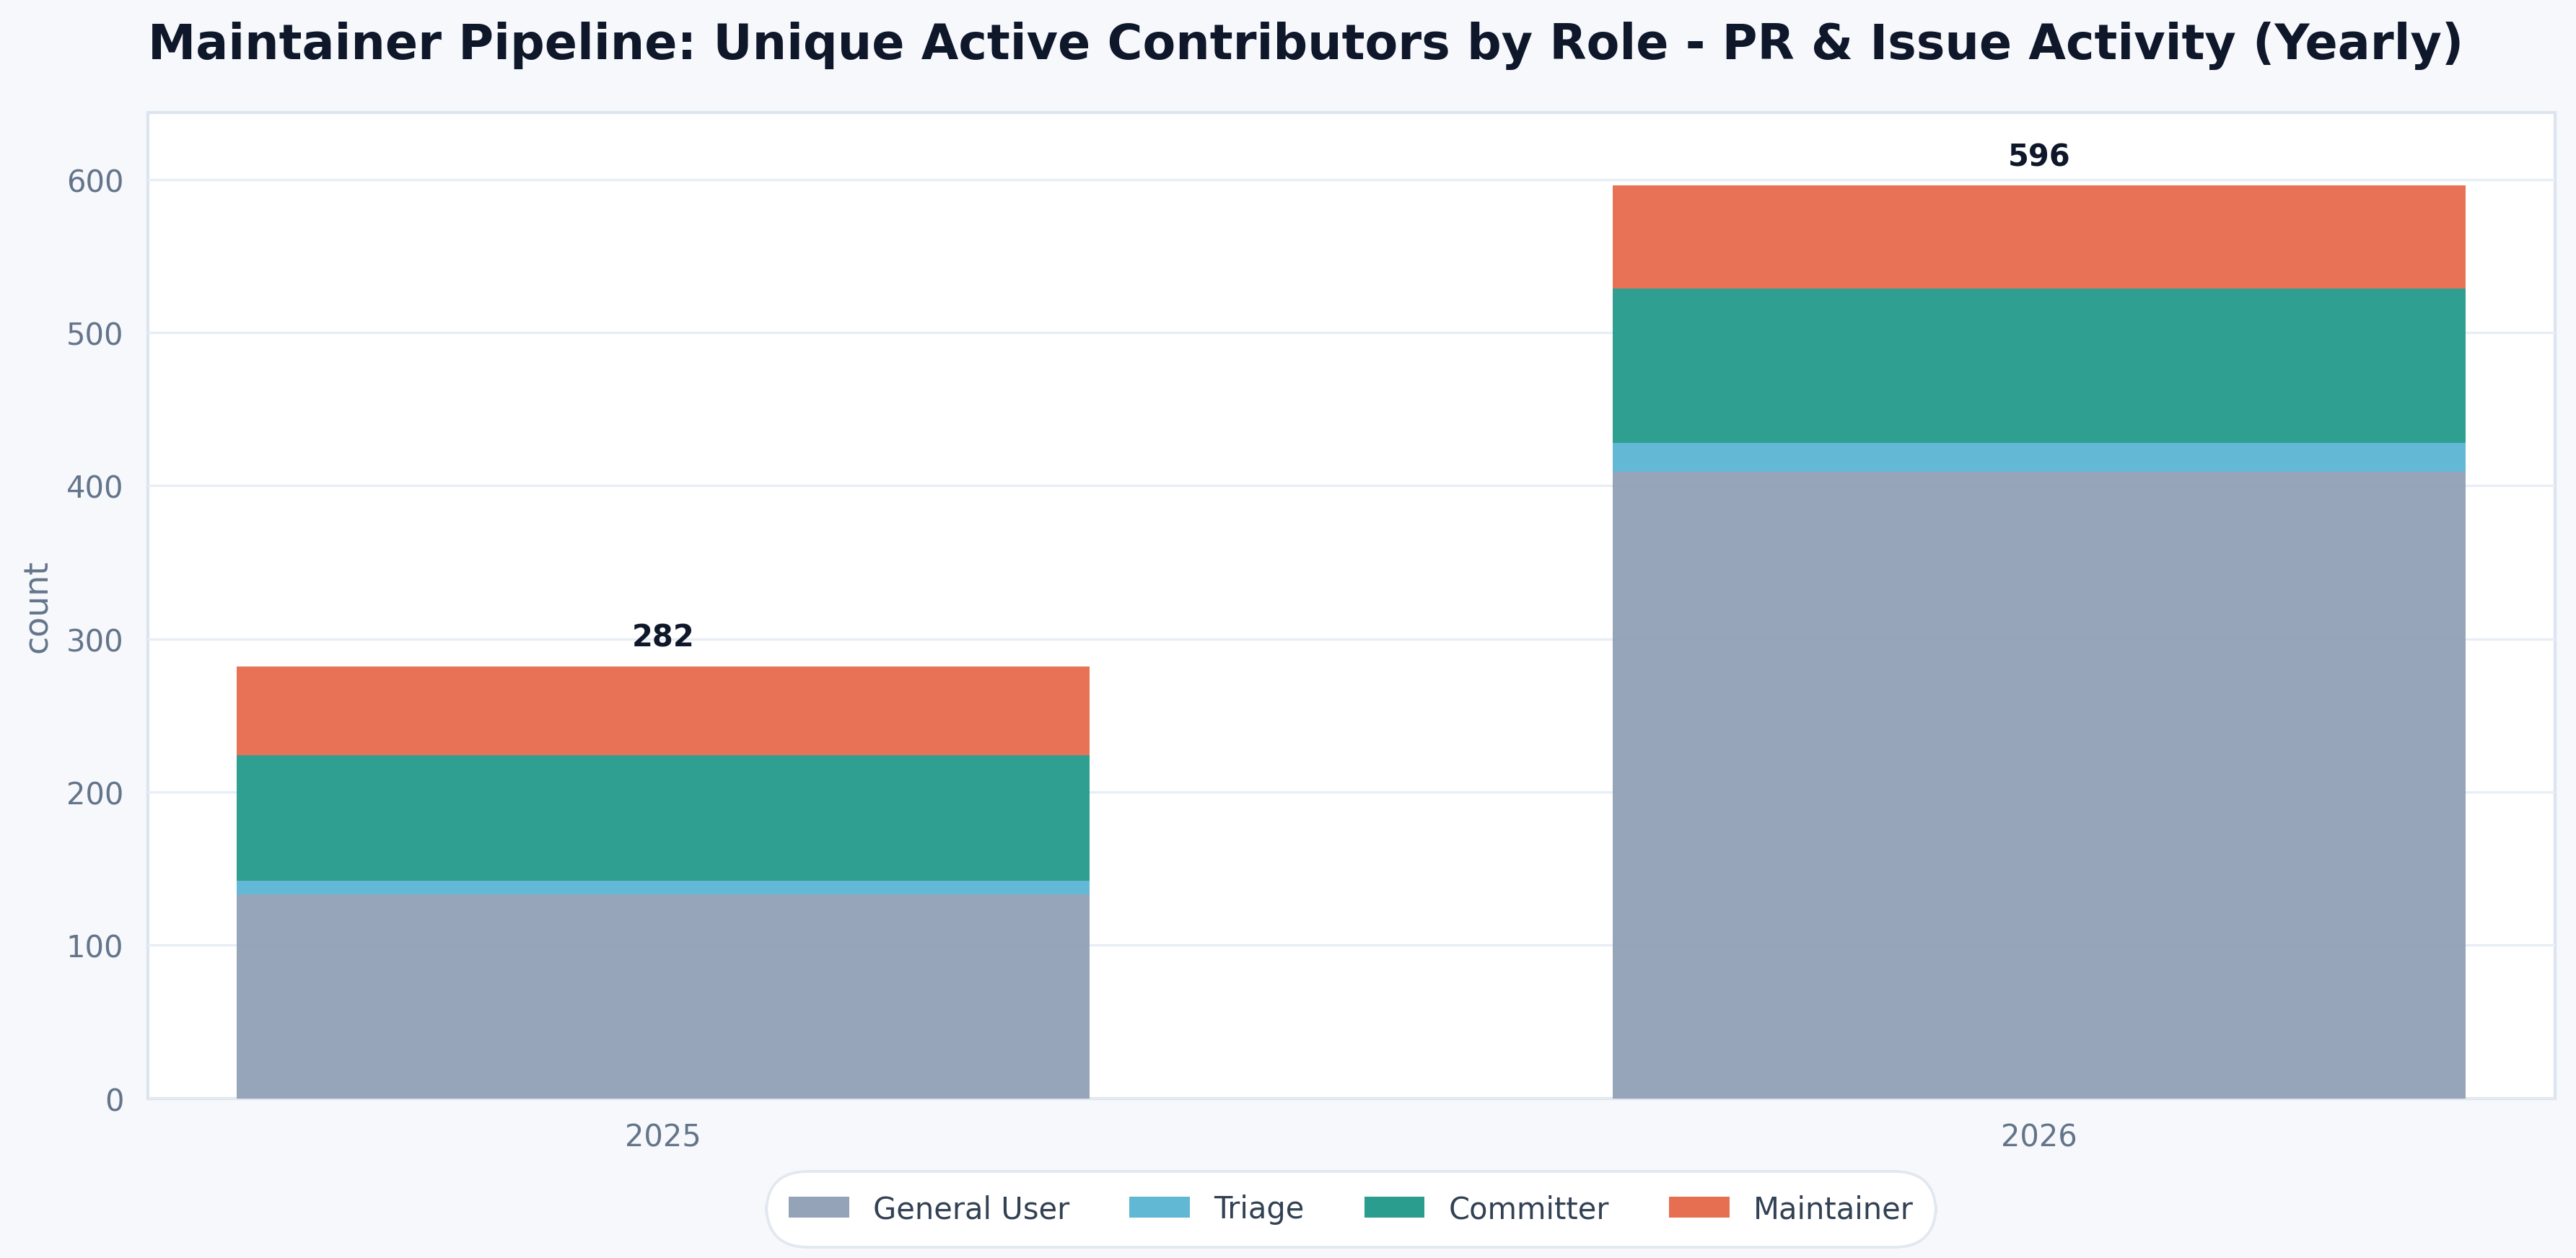
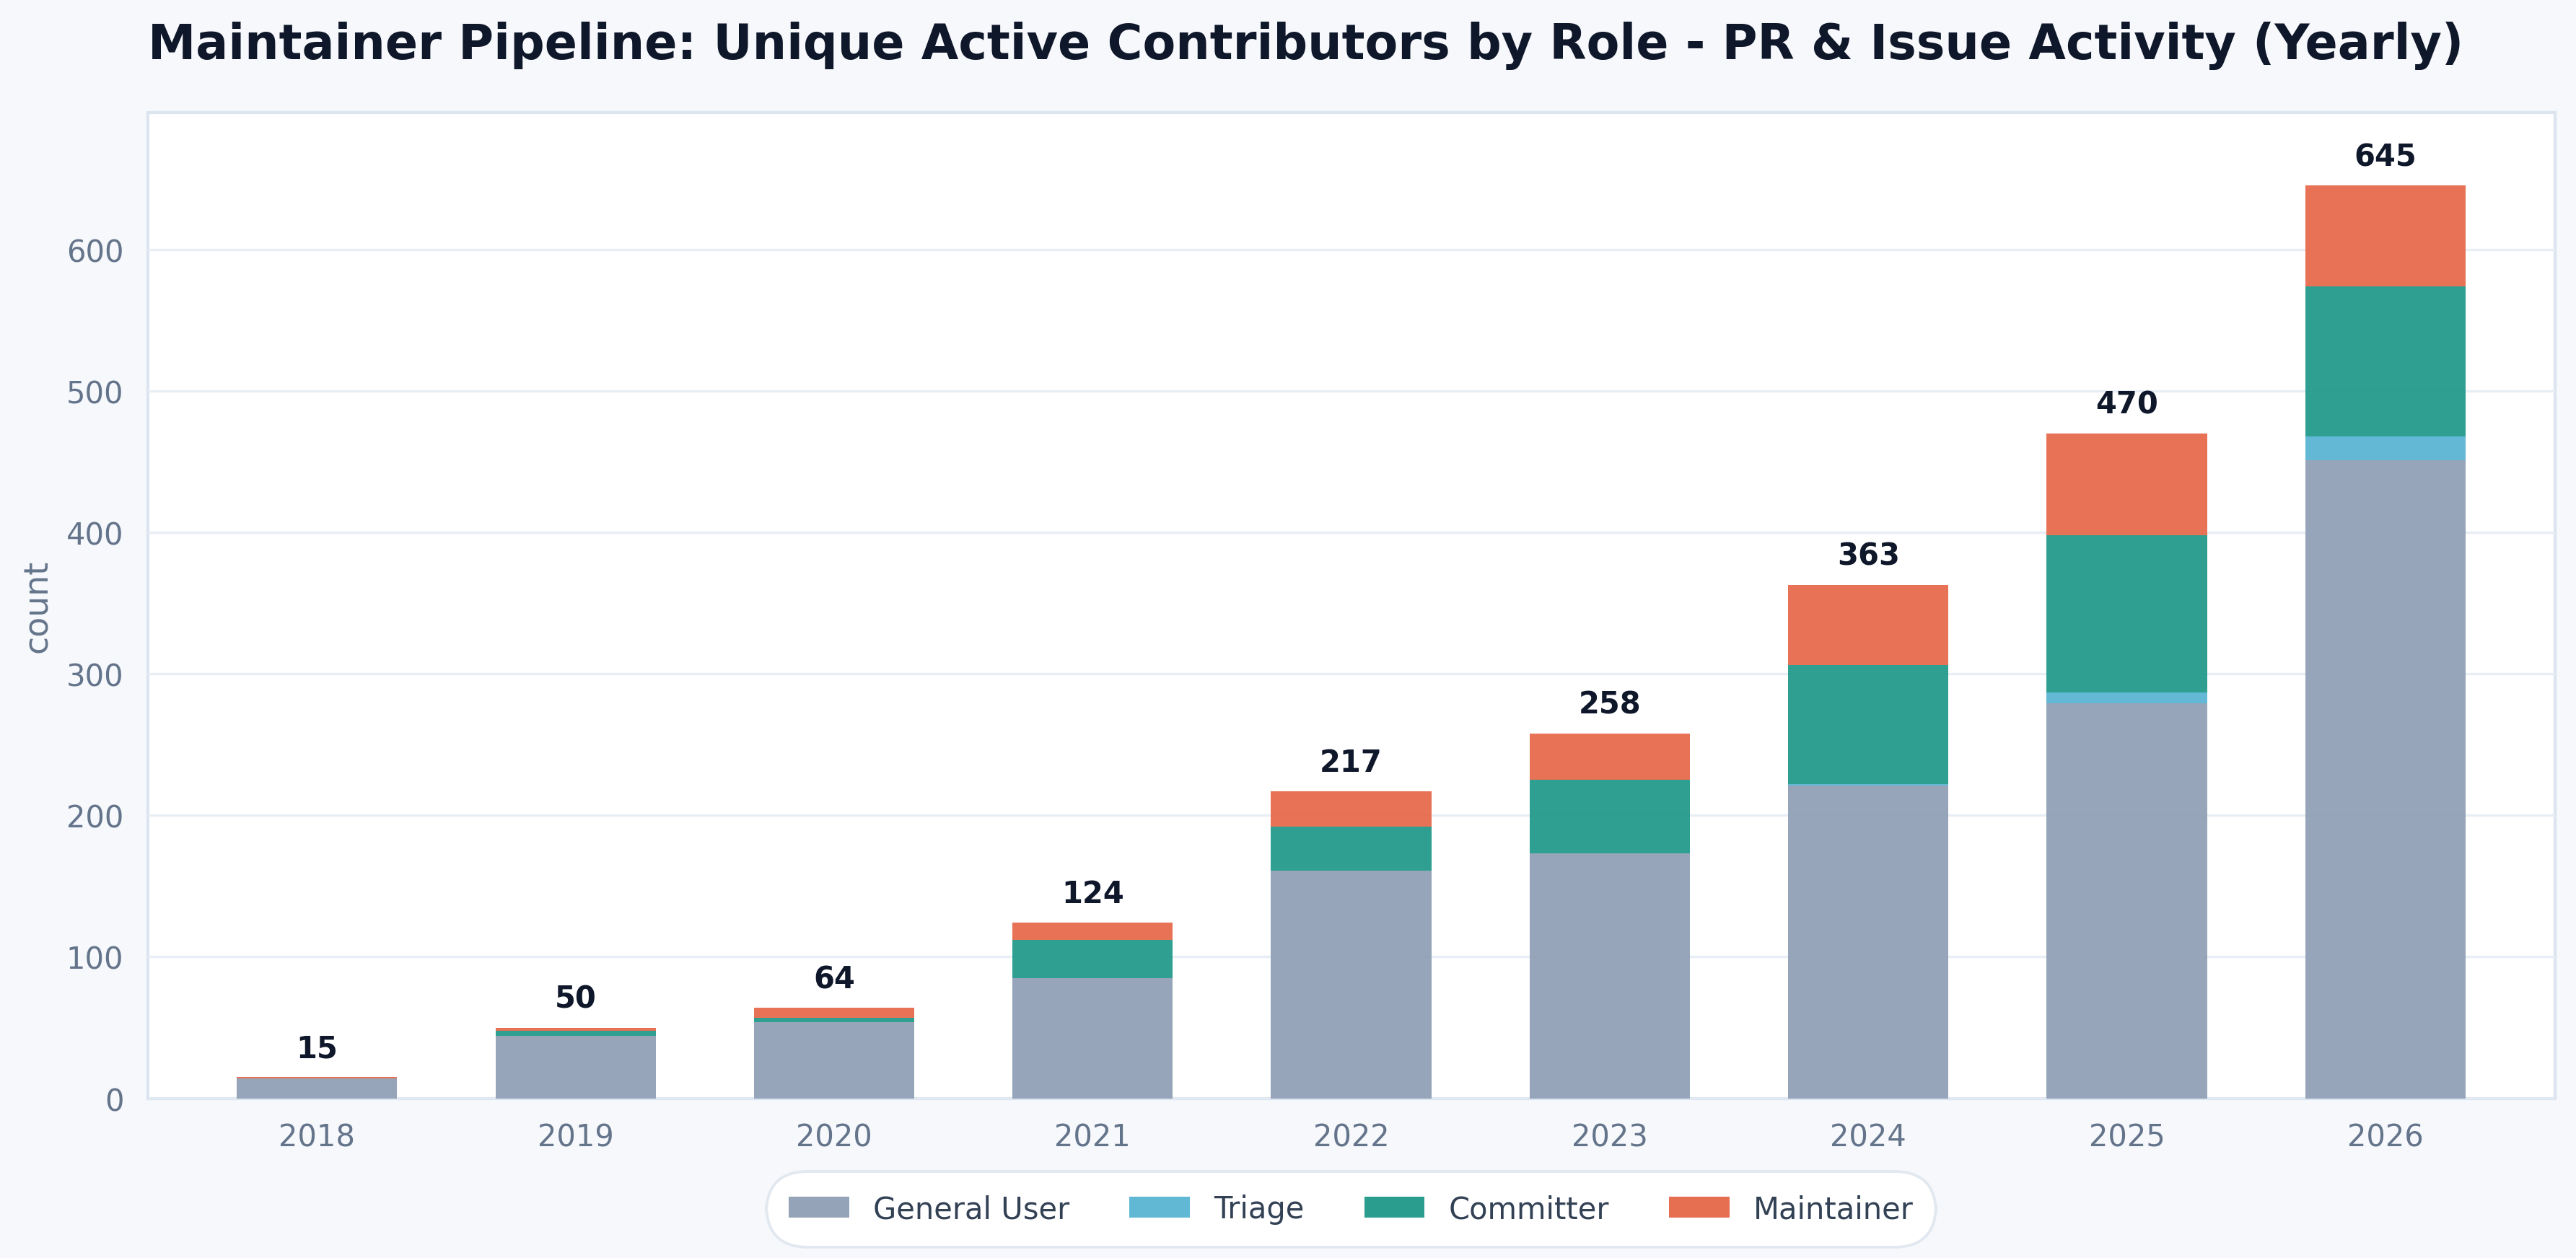
fix: correct grammar

diff --git a/content/posts/hiero-community-analytics.md b/content/posts/hiero-community-analytics.md
@@ -1,5 +1,5 @@
 +++
-title = "Hiero by the Numbers: Community Growth and Issue Difficulty Trends"
+title = "Hiero by the Numbers: Community Growth and Progression"
 date = 2026-05-10
 draft = false
 featured_image = "/images/hiero-community-analytics.png"
@@ -7,12 +7,13 @@ abstract = "A data-driven look at Hiero's community growth and issue difficulty 
 tags = ["community", "analytics", "open-source", "contributors"]
 
 [[authors]]
-name = "Daniel Ntege and Sophie Bulloch, Hiero community"
+name = "Daniel Ntege and Sophie Bulloch"
 +++
 
-A growing number of people have become involved in the Hiero community. To understand this shift more clearly, we have been developing community analytics at [hiero-hackers/analytics](https://github.com/hiero-hackers/analytics). 
+A growing number of developers have become involved in the Hiero community. To visualise this shift, we have been developing community analytics at [hiero-hackers/analytics](https://github.com/hiero-hackers/analytics). 
 
-Here are two charts that stand out to tell the story that we are excited to share.
+Here are two charts that tell the story, and which we are excited to share.
+
 ---
 
 ## Contributors are Growing
@@ -20,15 +21,13 @@ Here are two charts that stand out to tell the story that we are excited to shar
 ![Stacked bar chart showing unique active contributors by role (General User, Triage, Committer, Maintainer) from 2018 to 2026.](/images/maintainer_pipeline_yearly.png)
 *Active contributors by role, 2018–2026*
 
-This one is probably the most exciting chart for us. It counts how many people were active on Hiero's GitHub each year — opening pull requests, filing issues, leaving comments, or reviewing code — broken down by their role in the organisation.
+This is the chart we are most excited about. It counts how many people were active on Hiero's GitHub each year — opening pull requests, filing issues, reviewing pull requests, or merging code — broken down by their role in the organisation.
 
-Since Hiero became open source in September 2024, **the number of active contributors has grown from 363 in 2024 to 645 in 2026**, a growth of 78%.
+Since Hiero and its repositories became open source in September 2024, **the number of active contributors has grown from 363 in 2024 to 645 in 2026** — an increase of 78%. The biggest absolute change came from **General Users**: contributors without a formal role at Hiero who are contributing to the codebase and community, growing from around 220 in 2024 to roughly 450 in 2026. This is a testament to the passion of the community, the benefits of working in the open, and the stewardship of the Linux Foundation Decentralized Trust (LFDT).
 
-Most of that growth came from **General Users**. This group has experienced phenomenal growth: people without a formal role in Hiero who are contributing to Hiero's codebase and community. That group has grown from around 220 in 2024 to roughly 450 in 2026, testament to the passion of the community, the benefits of open-source, and the stewardship of the LFDT.
+We also wanted to highlight the **Triage** role. The triage team has grown roughly fivefold over the same period — from a handful of members in 2024 to around 20 by 2026. Triagers play a crucial role at Hiero: they are the first contact point for incoming issues and pull requests, and the role is the first step on the ladder to becoming a Committer or Maintainer. This suggests more community members are interested in contributing further, and are in training to take on more responsibility.
 
-We also wanted to highlight the Trige role at Hiero which has grown from just a handful in 2024 to over 20 members by 2026. The triage team plays a crucial role at Hiero, being the first contact point for incoming issues and pull requests, and is the first step in the ladder to becoming a committer or maintainer. This indicates more community members are training to gain even more responsibility.
-
-The way we think about it: people often start by contributing casually, and over time some take on more responsibility. So, not only does this chart show strong community growth, this chart is showing early signs of the community gaining real responsibility at Hiero and reflects the hard work existing maintainers and committers are doing to open up issues to new users.
+What we take from this: people often start by contributing casually, and over time some build a deeper interest in the project and take on more responsibility. Therefore, this chart is not only a sign of strong community growth — it also shows early signs of contributors taking on real responsibility at Hiero, and reflects the work existing Maintainers and Committers are doing to open up issues to new contributors.
 
 ---
 
@@ -37,23 +36,19 @@ The way we think about it: people often start by contributing casually, and over
 ![Stacked area chart showing open issues by difficulty label (Good First Issue, Beginner, Intermediate, Advanced) from May 2025 to May 2026.](/images/difficulty_over_time_event_based_weekly.png)
 *Open issues by difficulty label over time*
 
-One of the things that makes an open-source project welcoming is being able to find an issue that matches your skill level. 
+One of the things that makes an open-source project welcoming is being able to find an issue that matches your skill level. This chart counts open issues at Hiero from the moment they are labelled as Good First Issue, Beginner, Intermediate or Advanced.
 
-This chart counts open issues at Hiero from the moment they are labeled tagged as Good First Issue, Intermediate or Advanced.
-
-In June 2025, some repositories at Hiero created **Good First Issues** and we quickly learned there was overwhelming interest and the community wanted to contribute more meaningfully beyond this level.
-
-Since December 2025, maintainers at several repositories at Hiero have been working on creating automations and documentation to support a wave of new contributors beyond the good first issue level. We have piloted new issue categories **Beginner**, **Intermediate**, and **Advanced**, and many of Hiero's open issues are now tagged by difficulty.
+In June 2025, some repositories at Hiero began publishing **Good First Issues**. We quickly learned there was overwhelming interest in contributing to them, and that the community wanted to contribute more meaningfully beyond this entry level. Since December 2025, Maintainers across several Hiero repositories have been building the automations and documentation needed to support a wider wave of new contributors. As part of this, we have piloted three further categories — **Beginner**, **Intermediate**, and **Advanced** — and many of Hiero's open issues are now tagged by difficulty.
 
 A few things stand out:
 
-- **Hiero has a diverse mix of issues**. Hiero's open issues have a good mix from GFI, Beginner, Intermediate to Advanced.
-- **Labeling by Difficulty Continues to Grow**. In December 2025, we labelled 60 issues by difficulty and this has reached 140 issues by May 2026.
-- **Around 35–40 Good First Issues are open right now**, which is a healthy pool for newcomers.
+- **Hiero has a diverse mix of issues.** Open issues are spread across Good First Issue, Beginner, Intermediate, and Advanced.
+- **Labelling by difficulty continues to grow.** From around 60 labelled issues in December 2025, we have reached roughly 140 by May 2026.
+- **Around 35–40 Good First Issues are open right now.**
 
-This tells us maintainers are being intentional about leaving the door open for new contributors. If you've been thinking about jumping in, now might be a good time to get involved.
+> This tells us Maintainers at Hiero are being intentional about leaving the door open for new contributors, and are looking for help across a wide range of issues. If you've been thinking about getting involved, now is a good time.
 
-> A quick caveat: this chart only counts open issues that have been tagged with a difficulty label — not every open issue across Hiero. The total number of open issues is much higher. It also does not tell us which of these issues are already assigned.
+A quick caveat: this chart only counts open issues that have a difficulty label — not every open issue across Hiero. The total number of open issues is much higher: we estimate over 500. The chart also does not tell us which of these issues are already assigned.
 
 ---
 
@@ -61,6 +56,6 @@ This tells us maintainers are being intentional about leaving the door open for 
 
 If you'd like to start contributing, the easiest place to begin is by browsing issues tagged **`good-first-issue`** across the [Hiero repos](https://hiero.org/issues).
 
-The charts above come from our community analytics work at [hiero-hackers/analytics](https://github.com/hiero-hackers/analytics). If you're curious about the data, or want to help improve the tooling, add new charts, or pitch in on what to prioritise — the repo is open and we'd love the help.
+The charts above come from our community analytics work at [hiero-hackers/analytics](https://github.com/hiero-hackers/analytics). If you're curious about the data, or want to help improve the tooling, add new charts, or pitch in on labelling issues — the repo is open and we'd love the help.
 
 ---